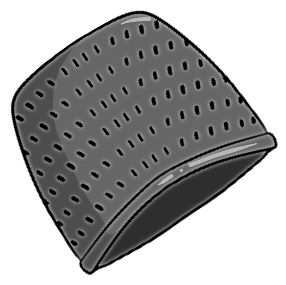
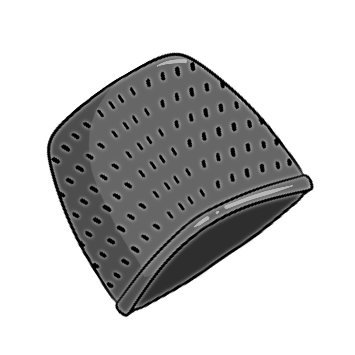
thimble and emery bag in, localstorage is hell im in hell

diff --git a/src/pages/HomePage.vue b/src/pages/HomePage.vue
@@ -10,7 +10,7 @@
           </div>
           <div class="col-12 text-center">
             <form @submit.prevent="updateName()">
-              <input v-model="dollName" type="text" name="" id="" class="fs-1 text-center text-light border rounded">
+              <input v-model="dollName" type="text" name="doll-name" id="doll-name" class="fs-1 text-center text-light border rounded">
             </form>
           </div>
           <div class="col-12 text-center">
@@ -19,7 +19,9 @@
           <div class="col-12 px-5 py-2">
             <div class="row rounded border border-dark bg-light">
               <div class="col-12 d-flex justify-content-center py-2">
-                <span></span>
+                <span class="fs-5">
+                  {{ cursePoints }}
+                </span>
               </div>
               <div class="col-6 text-center py-2">
                 <span>{{ clickAmount }} per click</span>
@@ -77,11 +79,11 @@ import { loadService } from "../services/LoadService.js";
 import UpgradeCard from "../components/UpgradeCard.vue";
 import DollOptionCard from "../components/DollOptionCard.vue";
 import BoostCard from "../components/BoostCard.vue";
-import { logger } from "../utils/Logger.js";
+import { dollService } from "../services/DollService.js";
 
 export default {
     setup() {
-      const dollName = ref(AppState.dollName)
+      const dollName = ref(AppState.doll.name)
       function loadEverything(){
         try {
           loadService.loadEverything()
@@ -106,6 +108,7 @@ export default {
             dollOptions: computed(() => AppState.dollOptions),
             clickAmount: computed(() => AppState.clickAmount),
             autoAmount: computed(() => AppState.autoAmount),
+            cursePoints: computed(() => AppState.cursePoints),
             dollName,
             changeDisplaying(string){
               try {

diff --git a/src/AppState.js b/src/AppState.js
@@ -16,7 +16,8 @@ export const AppState = reactive({
   /** @type {import('./models/Doll.js').Doll} */
   doll: {
     kit: 'default',
-    color: 'grey'
+    color: 'grey',
+    name: 'Name Your Doll'
   },
 
   boosts: [
@@ -69,7 +70,7 @@ export const AppState = reactive({
       name: 'Emery Bag',
       comment: '',
       description: '',
-      img: '',
+      img: '/Emery-Bag.png',
       price: 0,
       value: 0,
       quantity: 0
@@ -187,8 +188,6 @@ export const AppState = reactive({
   autoAmount: 0,
 
   cursePoints: 0,
-
-  dollName: 'Jeff',
 
   displaying: 'click',
 })

diff --git a/src/services/LoadService.js b/src/services/LoadService.js
@@ -14,10 +14,17 @@ class LoadService{
       AppState.dollOptions = AppState.dollOptionsData
     }
     if(AppState.dollData){
+      logger.log(AppState.dollData)
       AppState.doll = AppState.dollData
+      logger.log(AppState.doll)
     }
-    if(AppState.cursePointsData){
+    if(AppState.cursePointsData > 0){
       AppState.cursePoints = AppState.cursePointsData
+    }
+    if(AppState.dollNameData){
+      AppState.dollNameData.join('')
+      logger.log(AppState.dollNameData)
+      // AppState.dollName = AppState.dollNameData
     }
   }
 }

diff --git a/src/services/DollService.js b/src/services/DollService.js
@@ -1,7 +1,14 @@
+import { AppState } from "../AppState.js"
+import { saveState } from "../utils/Store.js"
 
 
 class DollService{
-
+  updateName(dollName){
+    doll.name = dollName
+    doll.color = AppState.doll.color
+    doll.kit = AppState.doll.kit
+    saveState('doll', doll)
+  }
 }
 
 export const dollService = new DollService()

diff --git a/src/models/Doll.js b/src/models/Doll.js
@@ -1,6 +1,7 @@
 export class Doll{
   constructor(data){
-    this.kit = data.kit || 'default'
-    this.color = data.color || 'grey'
+    this.kit = data.kit
+    this.color = data.color
+    this.name = data.name
   }
 }
